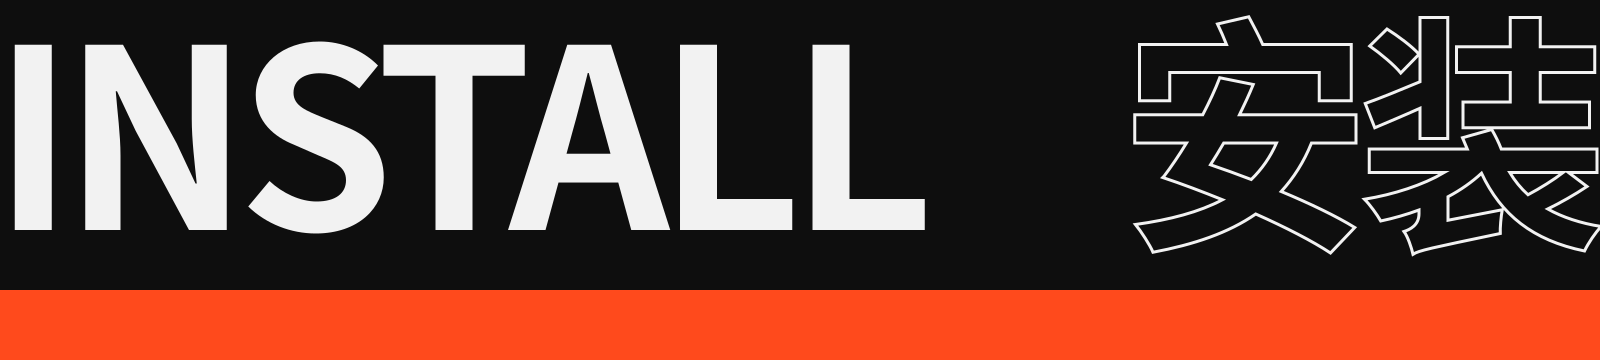
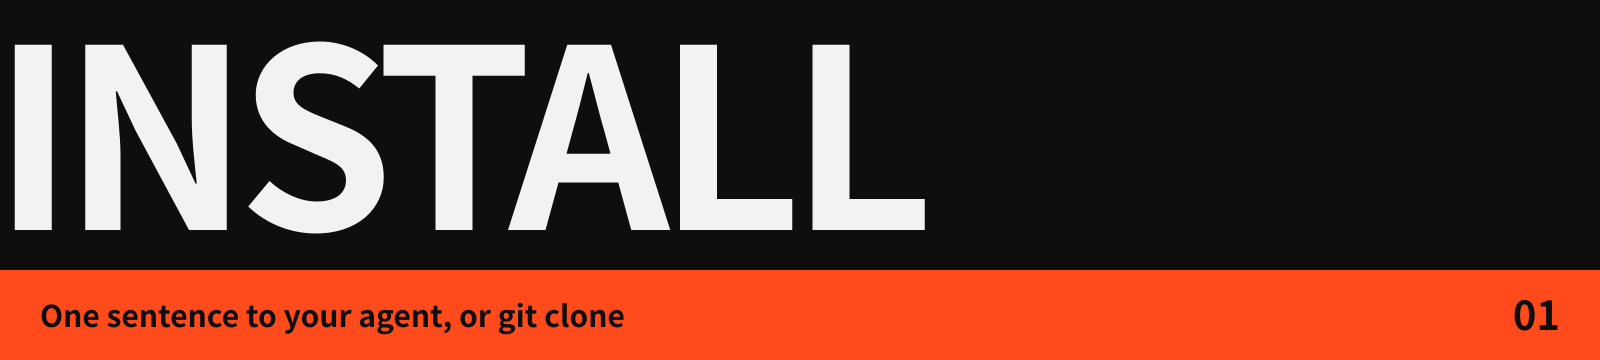
Localized zh/en previews: process walkthrough deck, single 33-pack style gallery, new section headers

diff --git a/README.md b/README.md
@@ -6,8 +6,6 @@ English | [简体中文](README.zh-CN.md)
 
 **frame-ppt works with you to structure the deck. It is not a one-click page generator.** It asks about your brief first, then builds a pyramid-principle outline. Each page waits for your sign-off before the final design is produced.
 
-![Workflow](docs/images/readme/workflow-en.png)
-
 ![Install](docs/images/readme/install-en.png)
 
 Paste this to your agent (Claude Code, Codex, etc.):
@@ -24,16 +22,18 @@ git clone https://github.com/ottoprua/frame-ppt.git ~/.claude/skills/frame-ppt
 
 Then say **`frame`** to your agent to start.
 
-![Results](docs/images/readme/results-en.png)
+![Process](docs/images/readme/process-en.png)
+
+This 8-slide deck was made with frame-ppt, and it shows how frame-ppt builds a deck: brief Q&A, research digest, pyramid outline, page briefs, SVG wireframes, style packs, then checks and export. Full-size slides are in [docs/images/process/en](docs/images/process/en).
+
+![How a deck is built](docs/images/process/process-en.png)
+
+![Styles](docs/images/readme/styles-en.png)
 
 There are 33 style packs, each with its own signature layout and theme. All brands and data in these images are fictional examples.
 
-![Core styles](docs/images/style-gallery.png)
-
-![Industry & trend styles](docs/images/style-gallery-industry.png)
-
-Full-resolution slides (3840×2160) are available in Releases.
+![Style packs](docs/images/style-gallery-en.png)
 
 ---
 
-[Apache-2.0](LICENSE) · Credits and third-party notices in [NOTICE.md](NOTICE.md)
+Apache-2.0 License · Credits and third-party notices in [NOTICE.md](NOTICE.md)

diff --git a/README.zh-CN.md b/README.zh-CN.md
@@ -6,8 +6,6 @@
 
 **frame-ppt 和你一起把 PPT 的结构搭起来，不是一键出页面的生成器。** 它先问清你的需求，再用金字塔原理搭好大纲。每一页都等你确认之后，才出最终的设计稿。
 
-![工作流程](docs/images/readme/workflow-zh.png)
-
 ![安装](docs/images/readme/install-zh.png)
 
 把下面这句话发给你的 Agent（Claude Code、Codex 等）：
@@ -24,16 +22,18 @@ git clone https://github.com/ottoprua/frame-ppt.git ~/.claude/skills/frame-ppt
 
 装好之后，对 Agent 说一句 **`frame`** 就能开始。
 
-![效果](docs/images/readme/results-zh.png)
+![流程](docs/images/readme/process-zh.png)
+
+下面这份 8 页的 PPT 也是用 frame-ppt 做的，讲的是它怎么做 PPT：需求问答、资料消化、金字塔大纲、逐页简报、SVG 线框、套用风格包，最后检查并导出。单页大图在 [docs/images/process/zh](docs/images/process/zh)。
+
+![制作流程](docs/images/process/process-zh.png)
+
+![风格](docs/images/readme/styles-zh.png)
 
 33 个风格包，每个都有自己的典型版式和主题。图中的品牌和数据都是虚构的示例。
 
-![通用风格](docs/images/style-gallery.png)
-
-![行业与潮流风格](docs/images/style-gallery-industry.png)
-
-高清原图（3840×2160）可以在 Releases 下载。
+![风格包一览](docs/images/style-gallery-zh.png)
 
 ---
 
-[Apache-2.0](LICENSE) · 致谢与第三方许可见 [NOTICE.md](NOTICE.md)
+Apache-2.0 License · 致谢与第三方许可见 [NOTICE.md](NOTICE.md)
